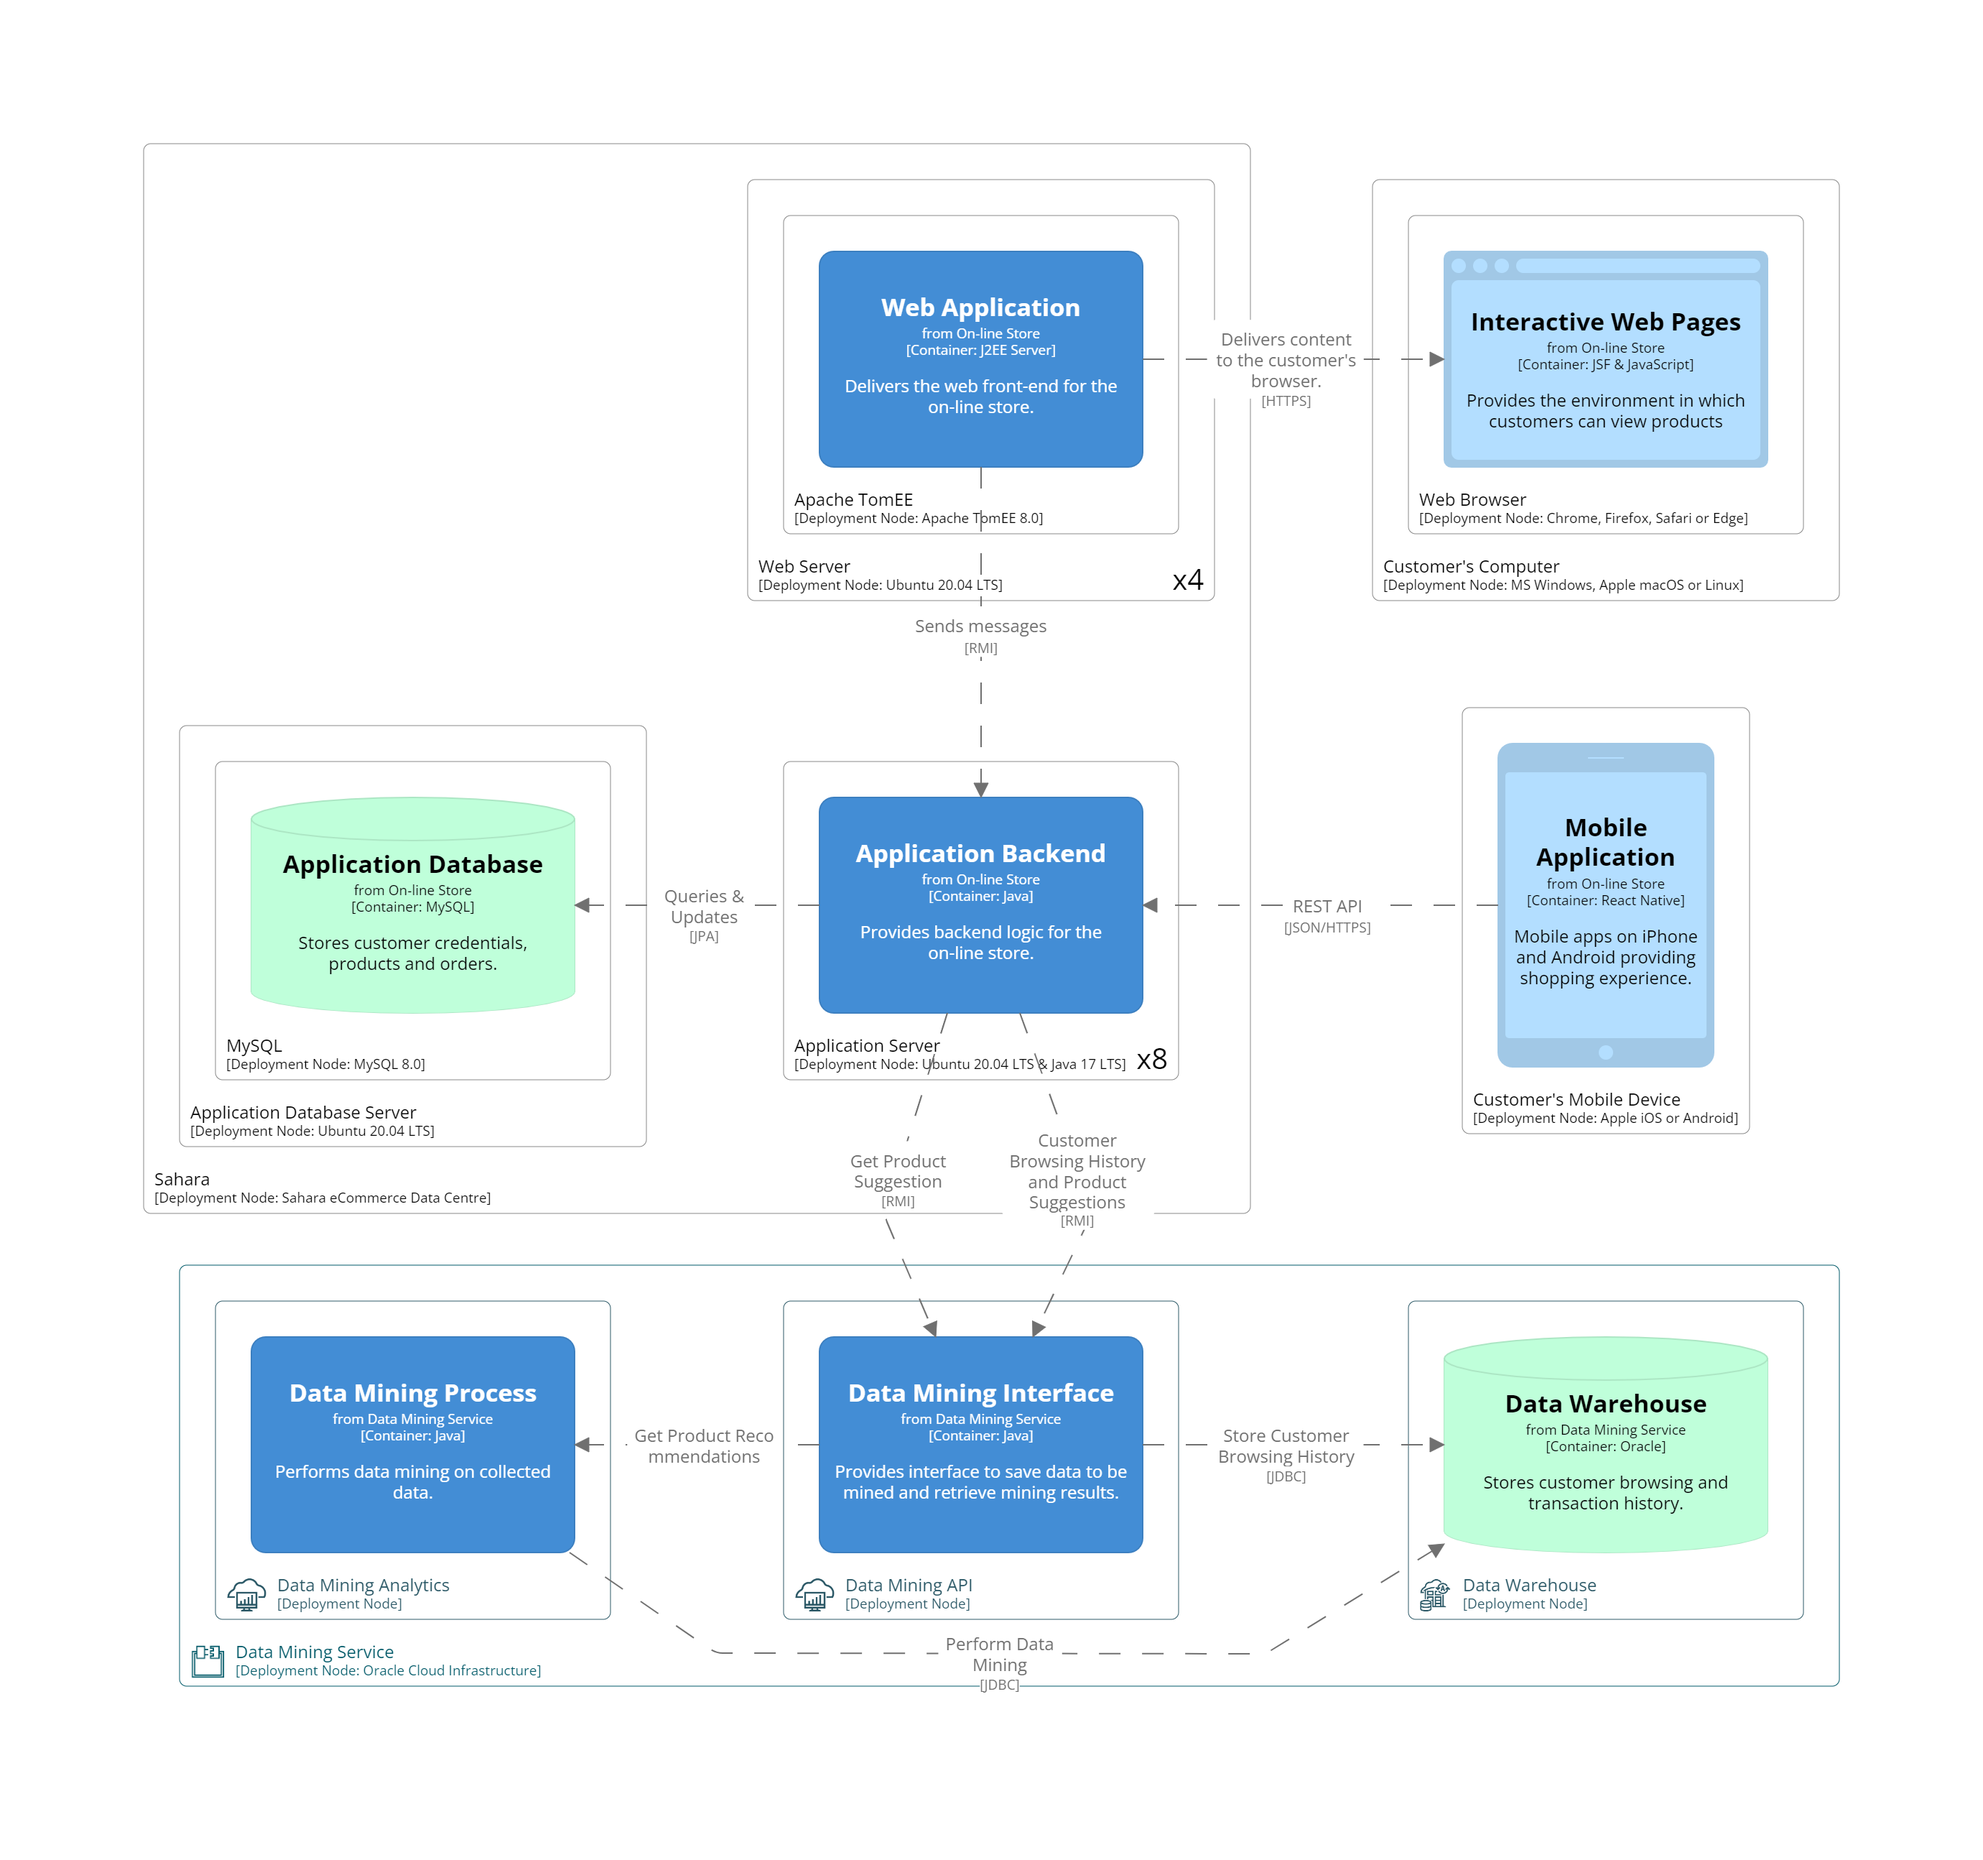
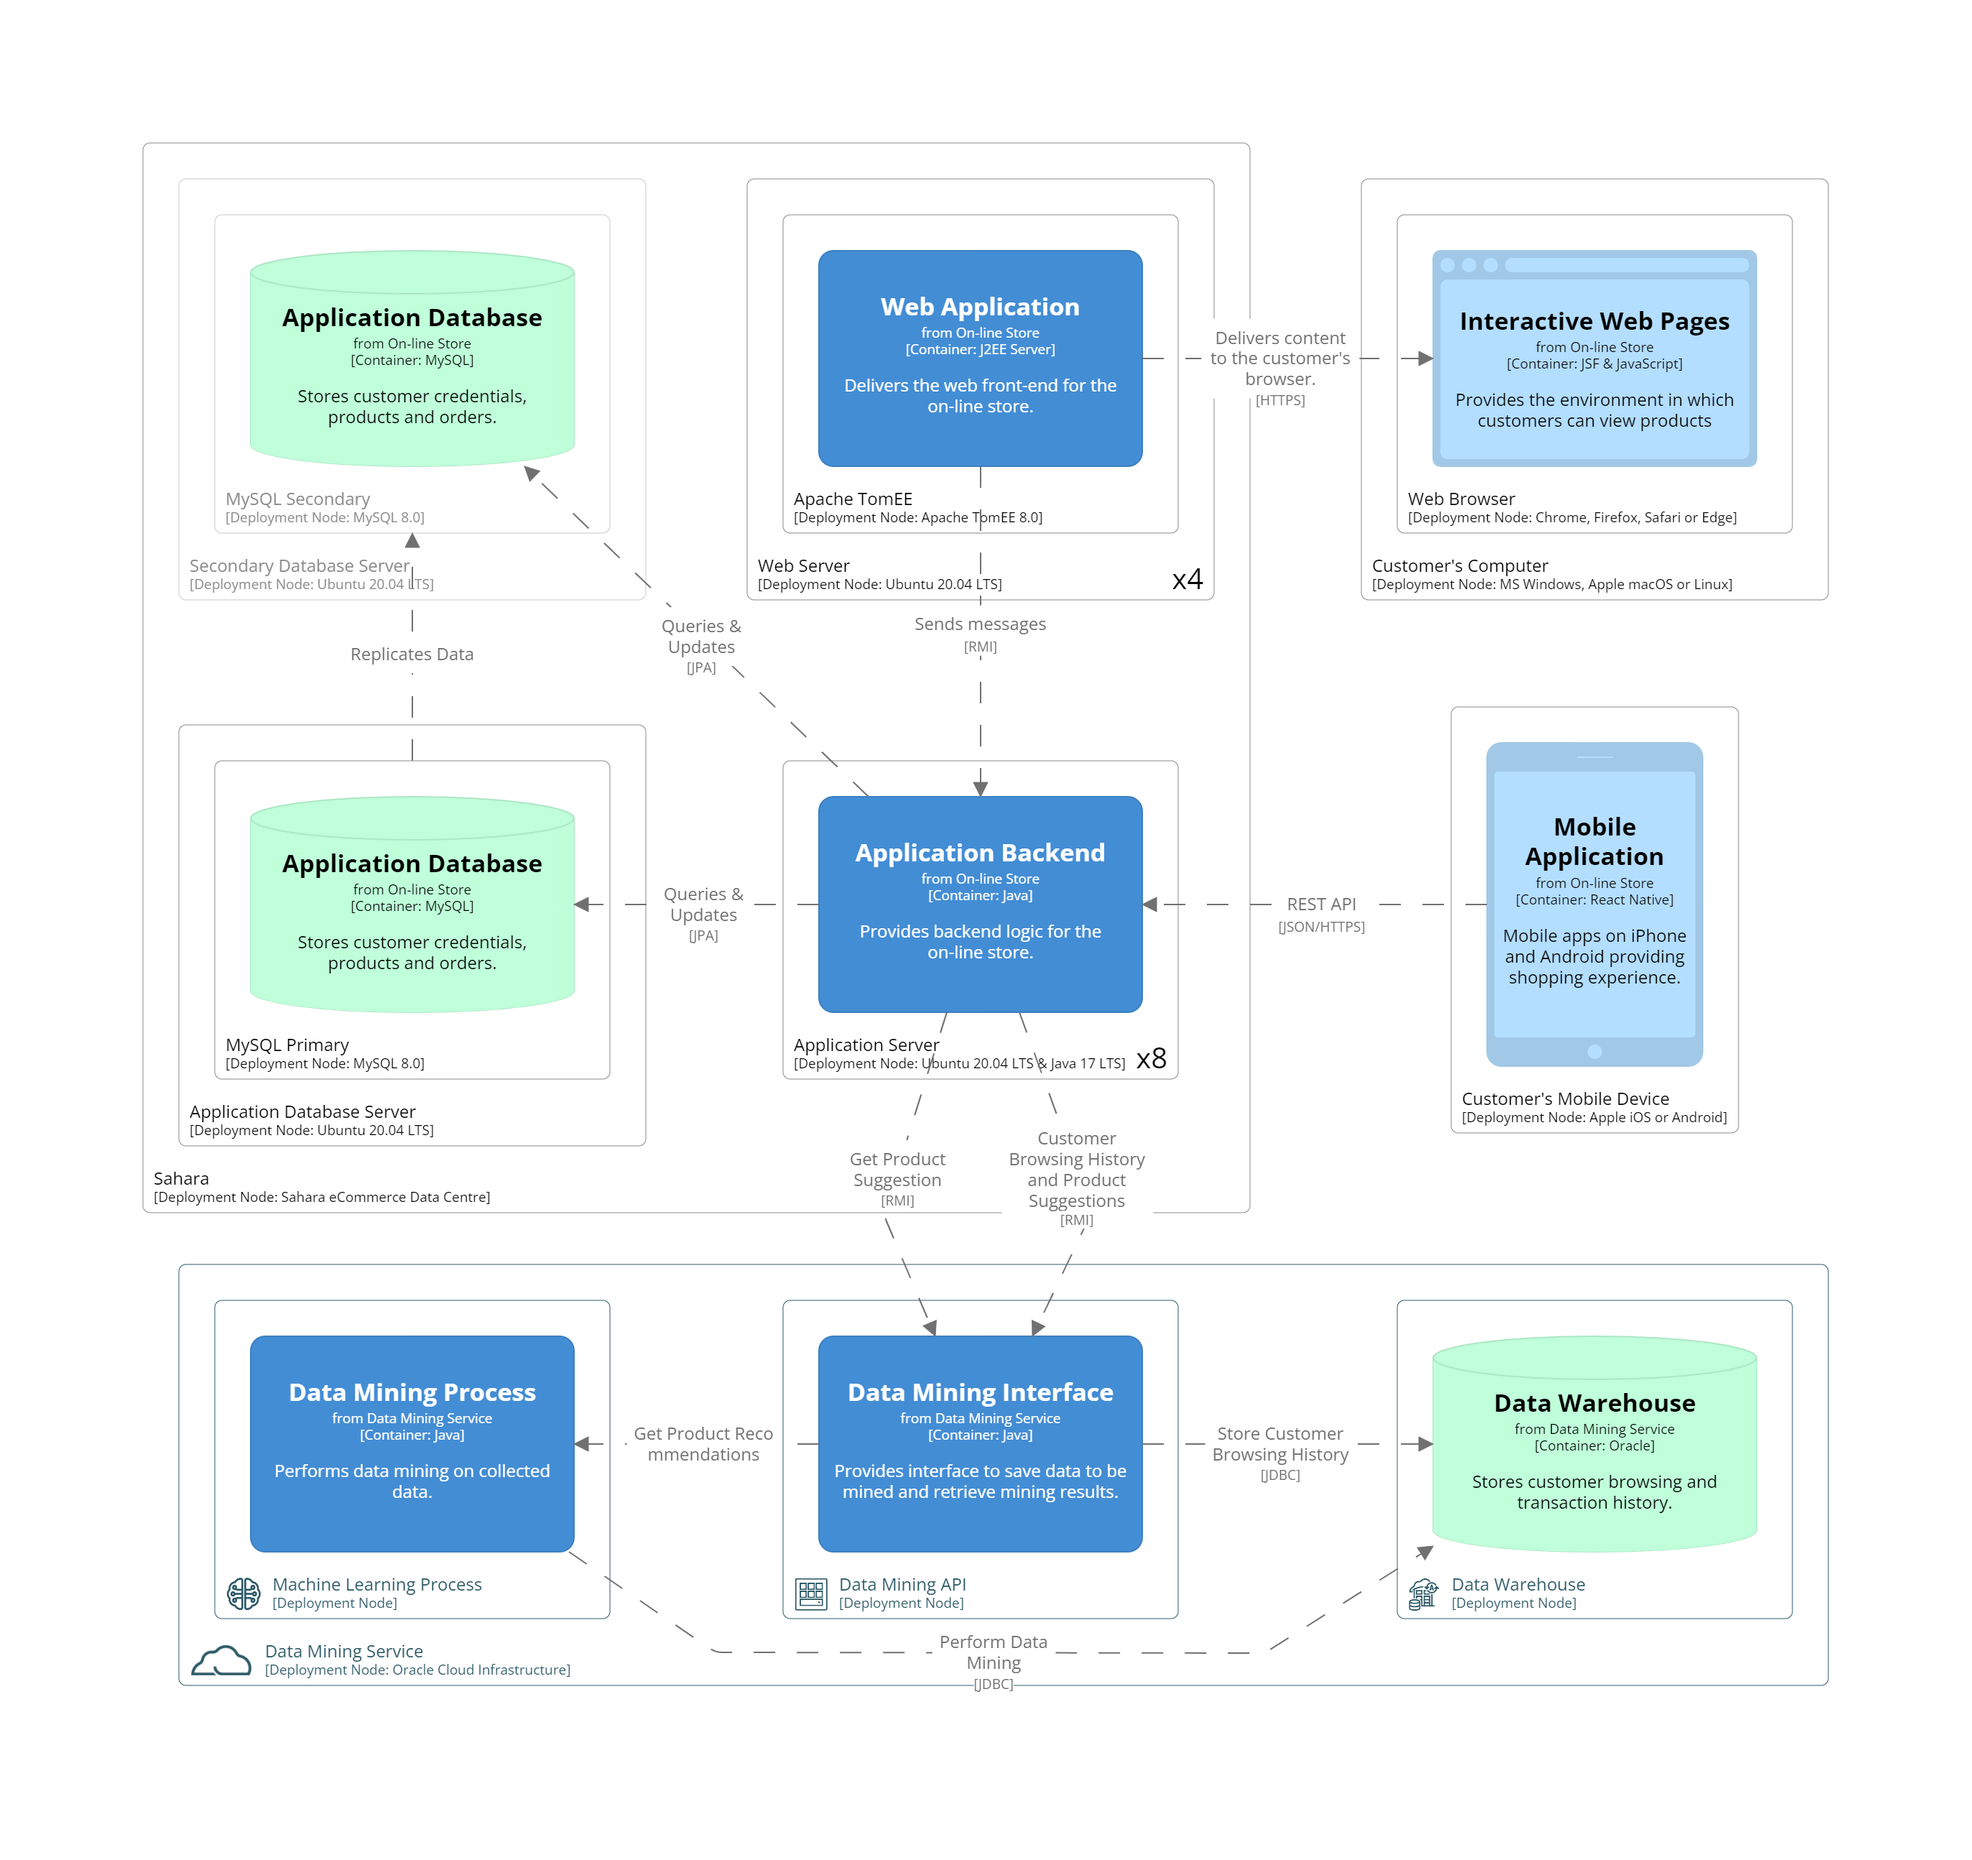
Finished C4 deployment example in views notes.

diff --git a/notes/views/content.tex b/notes/views/content.tex
@@ -162,7 +162,7 @@ For simplicity, details such as load balancing and failover are not shown in thi
 
 \begin{figure}[h!]
     \centering
-    \includegraphics[trim=39 42 25 45,clip,width=0.91\textwidth]{images/uml/deployment_diagram.png}
+    \includegraphics[trim=38 42 24 45,clip,width=0.91\textwidth]{images/uml/deployment_diagram.png}
     \caption{Example physical architecture for an on-line store.}
     \label{fig:deploymentDiagram}
 \end{figure}
@@ -558,13 +558,16 @@ Figure \ref{fig:classDiagram}, from section \ref{sec_moduleView},
 would be an example class diagram of how the \texttt{Shopping Cart} component is implemented.
 
 \subsection{Deployment}
-Deployment diagrams describe the physical architecture or infrastructure on which the system will be deployed.
-It shows which containers will run on which computing platforms.
+While not one of the ``four C's'', deployment diagrams are important for most systems.
+They describe the physical architecture or infrastructure on which the system will be deployed.
+It shows which containers will run on which computing platforms (\emph{deployment nodes}).
+Deployment nodes can be nested, as shown in figure \ref{fig:c4_deployment}.
+They may also contain infrastructure nodes or software system instances\footnote{\url{https://github.com/structurizr/dsl/blob/master/docs/language-reference.md\#deploymentNode}}.
 
 \begin{figure}[h!]
     \centering
     \begin{adjustwidth}{-6mm}{-6mm}
-        \includegraphics[trim=195 225 195 195,clip,width=0.93\paperwidth]{images/c4/deployment_diagram.png}
+        \includegraphics[trim=195 235 195 198,clip,width=0.93\paperwidth]{images/c4/deployment_diagram.png}
     \end{adjustwidth}
     \caption{Deployment diagram for the Sahara eCommerce System.}
     \label{fig:c4_deployment}
@@ -572,17 +575,96 @@ It shows which containers will run on which computing platforms.
 
 \noindent
 Figure \ref{fig:c4_deployment} is an example deployment diagram for the Sahara eCommerce example.
-It takes a different approach to the physical architecture than was shown in figure \ref{fig:deploymentDiagram}.
+It takes a slightly different approach to the physical architecture than was shown in figure \ref{fig:deploymentDiagram}.
+It shows that the on-line store software system runs in Sahara's data centre.
+The data mining service runs on Oracle's cloud infrastructure.
+There are still the apps running on mobile devices and the code running in the customer's browser.
 
-\subsection{Views}
-The C4 model does not explicitly include the concept of views.
-The emphasis is on the static structure of the software architecture.
-It does recommend including concepts from some views, where they provide valuable information about the architecture.
-This includes describing the computing infrastructure and how the software will be deployed on that infrastructure.
-For complex systems a diagram usually helps visualise the infrastructure and deployment details.
+Like UML, a software environment is embedded in the hardware environment on which it runs.
+The web application runs in an Apache TomEE J2EE server, which is running on a Ubuntu server.
+The ``\texttt{x4}'' inside the web server deployment node indicates that there will be four of these servers to share the load.
+The application backend runs on eight Ubuntu servers, providing the core business logic shared by the web and mobile applications.
+The application database runs in MySQL on its own Ubuntu server.
+The application database is replicated to a secondary database running on another server to allow for failover.
+
+In this version of the example, the application backend communicates with the data mining service
+through an API published by the data mining interface running on a virtual machine in Oracle's cloud infrastructure.
+The data mining service uses Oracle's machine learning services to perform the data mining.
+Oracle's cloud-based data warehouse infrastructure is used to hold all the data.
+
+Figure \ref{fig:c4_deployment_key} is the key describing the symbols and colours used in the deployment diagram.
+
+\begin{figure}[h!]
+    \centering
+    \begin{adjustwidth}{-5mm}{-5mm}
+        \includegraphics[trim=22 210 22 24,clip,width=0.92\paperwidth]{images/c4/deployment_diagram-key.png}
+    \end{adjustwidth}
+    \caption{Deployment diagram key.}
+    \label{fig:c4_deployment_key}
+\end{figure}
+
+\section{Tools}
+We do not advocate a specific notation or support tools.
+Both UML and C4 have been used so that you are aware of some options.
+UML is a standardised notation, with formal syntax and semantics.
+There will be situations where the formality will be useful.
+C4 is popular because it has a basic structure, but the rules are intentionally loose to make it easy to adopt.
+
+Regardless of whether you use UML, C4 or another notation, you should use tools to aid the creation of your diagrams and documentation.
+The important thing is that you want to use a modelling tool, not a drawing tool.
+Many drawing tools provide UML templates, and some also support C4.
+The issue with drawing tools is that they do not know what the elements of the diagram mean.
+If the name of an operation in a class is changed in a drawing tool, you will need to manually change it wherever it is referenced in other diagrams
+(e.g. in sequence diagrams).
+A modelling tool will track the information that describes the model, so that a change to a model element in one place,
+will be replicated wherever that element appears in any other diagrams.
+
+There are many tools that support UML.
+In a commercial project using UML on a large system, the cost of professional UML tools is negligible and is quickly recovered by the automation they provide.
+There are a number of free UML tools. Some to consider are \link{Astah}{https://astah.net/products/free-student-license/},
+\link{ModelIO}{https://www.modelio.org/} or \link{PlantUML}{https://plantuml.com/}.
+ \begin{description}[nosep]
+    \item[Astah] Is a commercial product that supports modelling in many notations. They provide a free UML tool for students.
+    \item[ModelIO] Is an open source UML modelling tool.
+    \item[PlantUML] Is an open source text-based descriptive language that generates UML diagrams.
+                              \link{PlantText}{https://www.planttext.com/} is an online tool supporting it.
+\end{description}
+
+There are fewer tools that support C4.
+\link{Structurizr}{https://www.structurizr.com/} was developed by Simon Brown as a tool to support generating C4 diagrams from textual descriptions.
+It is an \link{open source tool}{https://github.com/structurizr/}.
+You can use a domain specific language to describe a C4 model, or you can embed the details in Java or .Net code.
+There is also \link{C4-PlantUML}{https://github.com/plantuml-stdlib/C4-PlantUML}, which extends PlantUML to support C4.
 
 \section{Conclusion}
-Architectural views help developers understand the different dimensions and details of a complex software architecture.
+Architectural views help developers understand different dimensions and details of a complex software architecture.
+They are useful both during design and as documentation.
+During design, views help you to focus on a particular aspect of the software architecture and ensure that it will allow the system to deliver all of its requirements.
+As documentation, views help developers to understand how different aspects of the architecture are intended to behave.
+
+We have intentionally looked at a few different approaches to helping you describe a software architecture.
+You should be conversant with multiple different approaches.
+The hallmark of a professional is to know when to select a particular approach.
+
+If you compare the ``4+1 View Model'' \cite{4+1-model} with the views described in \textit{Software Architecture in Practice} (SAP) \cite{bass2021software},
+you will see that there are obvious similarities but also significant differences.
+The logical and development views from the 4+1 view model map closely to the module and component-and-connector views from SAP.
+The physical view corresponds to the allocation view.
+But, the 4+1 view model also includes process and scenario views, which do not correspond directly to the SAP views.
+This is because SAP emphasises the structure of the software architecture.
+
+The C4 model does not explicitly include the concept of views.
+Like SAP, it emphasises the static structure of the software architecture.
+
+There will be situations where you need to consider dynamic details, which is described by the process view of the 4+1 view model.
+Dealing with issues such as concurrency, real-time interactions or latency, can often be more easily considered by having a separate view for them.
+
+Kruchten's experience with Canada's integrated, nation-wide, air traffic control system was such a case.
+Data from radar systems and aircraft transponders have to be processed and reported to air traffic controllers in near real-time.
+With thousands of input sources and hundreds of controller stations, understanding concurrency issues is critical.
+Tracking aircraft from one control space to another means that communication latency is important.
+Each control space has its own hardware and is separated from neighbouring spaces by hundreds or thousands of kilometres.
+
 As a software architect you need to choose which views provide meaningful information about your software system.
 The graphical notation used to describe a view is only one part of the view (though an important part).
 Ensure you provide enough supporting information so others will know how to work with your architecture and why you made the choices that you did.
